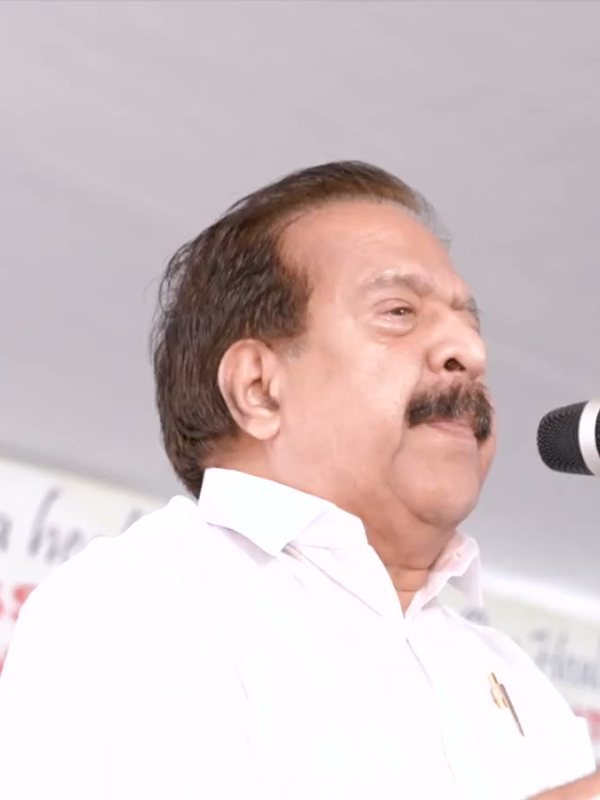
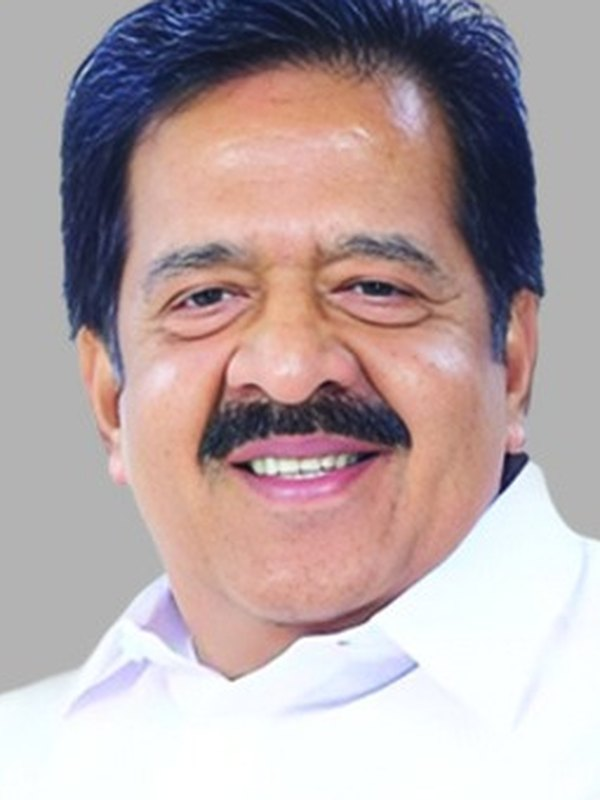
Highlight Mar Pauly Kannukkadan with portrait; use invitation portraits
- About: 'Blessed by' card with the bishop's portrait, title and the
  23 September blessing, placed under the inaugurator card; removed
  from the 'Also at the ceremony' list
- Home: band now shows both the bishop (Blessed by) and the Home
  Minister (Inaugurated by) with a shared CTA
- Gallery: bishop portrait tile; person tiles show the full portrait
- Portraits cropped from the high-resolution invitation embedded in the
  client's PDF; spelling aligned to the invitation (Kannukkadan)

diff --git a/css/style.css b/css/style.css
@@ -1001,6 +1001,7 @@ svg { fill: currentColor; }
 .gallery__item--wide video { width: 100%; height: 100%; display: block; object-fit: cover; aspect-ratio: 16 / 9; }
 .gallery__item--contain img { object-fit: contain; background: var(--white); }
 .gallery__item--contain:hover img { transform: none; }
+.gallery__item--person img { background: linear-gradient(180deg, var(--green-50), var(--green-100)); padding: 10px 0 0; }
 
 /* ---------- Hours ---------- */
 .hours { display: grid; gap: 4px; margin: 0; }
@@ -1253,29 +1254,48 @@ svg { fill: currentColor; }
 .inaugurator__meta a { color: var(--green-700); }
 .inaugurator__meta a:hover { text-decoration: underline; }
 
+/* blessing card variant */
+.inaugurator--blessing { grid-template-columns: 300px 1fr; gap: 44px; }
+.inaugurator--blessing::before { background: radial-gradient(circle, rgba(92,184,92,.16), transparent 65%); }
+.inaugurator__portrait {
+  position: relative; border-radius: var(--radius); overflow: hidden; aspect-ratio: 3 / 4; background: var(--green-100);
+  box-shadow: var(--shadow-sm); border: 6px solid var(--white); outline: 1px solid var(--line);
+}
+.inaugurator__portrait img { width: 100%; height: 100%; object-fit: cover; object-position: 50% 20%; }
+.inaugurator__portrait .inaugurator__date { left: 12px; bottom: 12px; }
+.inaugurator--blessing .inaugurator__role { color: var(--green-700); }
+
 /* compact band on Home */
 .inaug-band { background: var(--green-50); padding: 56px 0; }
-.inaugurator--band { grid-template-columns: 128px 1fr auto; gap: 28px; padding: 22px 30px 22px 22px; margin: 0; }
-.inaugurator__avatar { width: 128px; height: 128px; border-radius: 50%; overflow: hidden; border: 4px solid var(--saffron-100); box-shadow: var(--shadow-sm); }
-.inaugurator__avatar img { width: 100%; height: 100%; object-fit: cover; object-position: 50% 30%; }
-.inaugurator--band .inaugurator__name { font-size: clamp(1.6rem, 2.4vw, 2.1rem); }
+.inaug-band__grid { display: grid; grid-template-columns: 1fr 1fr; gap: 20px; }
+.inaugurator--band { grid-template-columns: 112px 1fr; gap: 22px; padding: 20px 26px 20px 20px; margin: 0; }
+.inaugurator__avatar { width: 112px; height: 112px; border-radius: 50%; overflow: hidden; border: 4px solid var(--saffron-100); box-shadow: var(--shadow-sm); }
+.inaugurator__avatar--blessing { border-color: var(--green-100); }
+.inaugurator__avatar--blessing + .inaugurator__body .inaugurator__role { color: var(--green-700); }
+.inaug-band .press__more { margin-top: 26px; }
+.inaugurator__avatar img { width: 100%; height: 100%; object-fit: cover; object-position: 50% 22%; }
+.inaugurator--band .inaugurator__name { font-size: clamp(1.45rem, 2vw, 1.8rem); }
+.inaugurator--band .inaugurator__role { font-size: .9rem; }
 .inaugurator--band .inaugurator__role { margin-bottom: 0; }
 .inaugurator__cta { position: relative; }
 
 @media (max-width: 1080px) {
-  .inaugurator--band { grid-template-columns: 110px 1fr; }
-  .inaugurator__avatar { width: 110px; height: 110px; }
-  .inaugurator__cta { grid-column: 1 / -1; }
+  .inaugurator--band { grid-template-columns: 96px 1fr; gap: 18px; }
+  .inaugurator__avatar { width: 96px; height: 96px; }
+  .inaugurator--blessing { grid-template-columns: 240px 1fr; gap: 32px; }
 }
 @media (max-width: 960px) {
-  .inaugurator { grid-template-columns: 1fr; gap: 24px; padding: 18px; margin-bottom: 44px; }
+  .inaugurator, .inaugurator--blessing { grid-template-columns: 1fr; gap: 24px; padding: 18px; margin-bottom: 44px; }
+  .inaugurator__portrait { max-width: 260px; }
+  .inaug-band__grid { grid-template-columns: 1fr; gap: 16px; }
   .inaugurator__body { padding-right: 0; }
   .inaug-band { padding: 44px 0; }
 }
 @media (max-width: 640px) {
   .inaugurator--band { grid-template-columns: 1fr; text-align: center; justify-items: center; padding: 22px 18px; }
   .inaugurator--band .eyebrow { justify-content: center; }
-  .inaugurator__cta .btn { width: 100%; }
+  .inaug-band .press__more .btn { width: 100%; }
+  .inaugurator__portrait { max-width: 220px; margin: 0 auto; }
 }
 
 @media (max-width: 960px) {

diff --git a/about.html b/about.html
@@ -211,7 +211,7 @@
             Lissy Ayurveda Hospital &amp; Panchakarma Centre (LAHPC) is located at Ithupadam, in Ward 23 of
             Mattathur Grama Panchayat, near Kodakara in Thrissur district. Kerala is recognised worldwide as the
             home of classical Ayurveda, and our hospital carries that tradition forward with sincerity and care.
-            The hospital was inaugurated on 24 September 2026 by Sri. Ramesh Chennithala, Home Minister, Government of Kerala, after a blessing ceremony on 23 September led by Mar Pauly Kannookadan,
+            The hospital was inaugurated on 24 September 2026 by Sri. Ramesh Chennithala, Home Minister, Government of Kerala, after a blessing ceremony on 23 September led by Mar Pauly Kannukkadan,
             Bishop of the Diocese of Irinjalakuda.
           </p>
           <p>
@@ -268,6 +268,26 @@
             </ul>
           </div>
         </div>
+        <div class="inaugurator inaugurator--blessing reveal">
+          <div class="inaugurator__portrait">
+            <img src="assets/images/inauguration/mar-pauly-kannukkadan.jpg" alt="Mar Pauly Kannukkadan, Bishop of the Diocese of Irinjalakuda" loading="lazy" width="600" height="800" />
+            <span class="inaugurator__date"><svg class="icon" aria-hidden="true"><use href="#i-cross"/></svg> 23 September 2026</span>
+          </div>
+          <div class="inaugurator__body">
+            <span class="eyebrow"><span class="eyebrow__dot"></span>Blessed by</span>
+            <h3 class="inaugurator__name">Mar Pauly Kannukkadan</h3>
+            <p class="inaugurator__role">Bishop, Diocese of Irinjalakuda</p>
+            <p class="inaugurator__text">
+              On the eve of the inauguration, His Excellency Mar Pauly Kannukkadan, Bishop of the Diocese of Irinjalakuda,
+              blessed the new hospital at Ithupadam, Mattathur, invoking God&rsquo;s grace on the healing work that
+              Lissy Ayurveda Hospital &amp; Panchakarma Centre set out to do.
+            </p>
+            <ul class="inaugurator__meta">
+              <li><svg class="icon" aria-hidden="true"><use href="#i-clock"/></svg> Blessing ceremony at 11:00 AM, 23 September 2026</li>
+              <li><svg class="icon" aria-hidden="true"><use href="#i-hospital"/></svg> Lissy Ayurveda Hospital &amp; Panchakarma Centre, Ithupadam</li>
+            </ul>
+          </div>
+        </div>
         <div class="inaug__inner">
           <div class="inaug__videos">
             <div class="video__frame reveal">
@@ -290,7 +310,6 @@
             <ul class="inaug__facts">
               <li><span><svg class="icon" aria-hidden="true"><use href="#i-mic"/></svg></span><div><strong>Sri. K.K. Ramachandran</strong><small>MLA, Puthukkad · Presided over the function</small></div></li>
               <li><span><svg class="icon" aria-hidden="true"><use href="#i-landmark"/></svg></span><div><strong>Sri. A. Prasad</strong><small>Deputy Mayor, Thrissur Corporation · Chief guest</small></div></li>
-              <li><span><svg class="icon" aria-hidden="true"><use href="#i-cross"/></svg></span><div><strong>Mar Pauly Kannookadan</strong><small>Bishop, Diocese of Irinjalakuda · Blessed the hospital on 23 September</small></div></li>
               <li><span><svg class="icon" aria-hidden="true"><use href="#i-stethoscope"/></svg></span><div><strong>Dr. Litty C.J.</strong><small>Chief Physician, LAHPC · Welcome address</small></div></li>
               <li><span><svg class="icon" aria-hidden="true"><use href="#i-handshake"/></svg></span><div><strong>Public representatives</strong><small>Smt. Tessy Jose, President, Mattathur Grama Panchayat; Smt. Aswathy V.B., President, Kodakara Block Panchayat; Sri. Akshay Santhosh, Ward 23 Member; and dignitaries from political and social life</small></div></li>
             </ul>

diff --git a/index.html b/index.html
@@ -369,18 +369,30 @@
     <!-- ========== INAUGURATED BY ========== -->
     <section class="inaug-band">
       <div class="container">
-        <div class="inaugurator inaugurator--band reveal">
-          <div class="inaugurator__avatar">
-            <img src="assets/images/inauguration/ramesh-chennithala.jpg" alt="Sri. Ramesh Chennithala, Home Minister, Government of Kerala" loading="lazy" width="600" height="800" />
+        <div class="inaug-band__grid">
+          <div class="inaugurator inaugurator--band reveal">
+            <div class="inaugurator__avatar inaugurator__avatar--blessing">
+              <img src="assets/images/inauguration/mar-pauly-kannukkadan.jpg" alt="Mar Pauly Kannukkadan, Bishop of the Diocese of Irinjalakuda" loading="lazy" width="600" height="800" />
+            </div>
+            <div class="inaugurator__body">
+              <span class="eyebrow"><span class="eyebrow__dot"></span>Blessed by</span>
+              <h3 class="inaugurator__name">Mar Pauly Kannukkadan</h3>
+              <p class="inaugurator__role">Bishop, Diocese of Irinjalakuda · 23 September 2026</p>
+            </div>
           </div>
-          <div class="inaugurator__body">
-            <span class="eyebrow"><span class="eyebrow__dot"></span>Inaugurated by</span>
-            <h3 class="inaugurator__name">Sri. Ramesh Chennithala</h3>
-            <p class="inaugurator__role">Home Minister, Government of Kerala · 24 September 2026</p>
+          <div class="inaugurator inaugurator--band reveal reveal--delay">
+            <div class="inaugurator__avatar">
+              <img src="assets/images/inauguration/ramesh-chennithala.jpg" alt="Sri. Ramesh Chennithala, Home Minister, Government of Kerala" loading="lazy" width="600" height="800" />
+            </div>
+            <div class="inaugurator__body">
+              <span class="eyebrow"><span class="eyebrow__dot"></span>Inaugurated by</span>
+              <h3 class="inaugurator__name">Sri. Ramesh Chennithala</h3>
+              <p class="inaugurator__role">Home Minister, Government of Kerala · 24 September 2026</p>
+            </div>
           </div>
-          <div class="inaugurator__cta">
-            <a href="about.html#inauguration" class="btn btn--primary">Watch the inauguration <svg viewBox="0 0 24 24" aria-hidden="true"><path d="M5 12h14M13 6l6 6-6 6" fill="none" stroke="currentColor" stroke-width="2" stroke-linecap="round" stroke-linejoin="round"/></svg></a>
-          </div>
+        </div>
+        <div class="press__more reveal">
+          <a href="about.html#inauguration" class="btn btn--primary">Watch the inauguration <svg viewBox="0 0 24 24" aria-hidden="true"><path d="M5 12h14M13 6l6 6-6 6" fill="none" stroke="currentColor" stroke-width="2" stroke-linecap="round" stroke-linejoin="round"/></svg></a>
         </div>
       </div>
     </section>

diff --git a/gallery.html b/gallery.html
@@ -224,7 +224,7 @@
         </div>
 
         <h2 class="gallery__title" id="inauguration">Inauguration, 24 September 2026</h2>
-        <p class="gallery__sub">Lissy Ayurveda Hospital &amp; Panchakarma Centre was inaugurated by Sri. Ramesh Chennithala, Home Minister, Government of Kerala, with Sri. K.K. Ramachandran, MLA, presiding.</p>
+        <p class="gallery__sub">Lissy Ayurveda Hospital &amp; Panchakarma Centre was inaugurated by Sri. Ramesh Chennithala, Home Minister, Government of Kerala, with Sri. K.K. Ramachandran, MLA, presiding. The hospital was blessed the previous day by Mar Pauly Kannukkadan, Bishop of the Diocese of Irinjalakuda.</p>
         <div class="gallery__grid">
           <figure class="gallery__item gallery__item--wide reveal">
             <video controls preload="none" playsinline poster="assets/video/inauguration-poster.jpg">
@@ -244,9 +244,13 @@
             <a href="assets/images/inauguration/lamp-lighting.jpg" target="_blank" rel="noopener"><img src="assets/images/inauguration/lamp-lighting.jpg" alt="Sri. Ramesh Chennithala, Home Minister, lighting the lamp to inaugurate LAHPC" loading="lazy" /></a>
             <figcaption>Home Minister Sri. Ramesh Chennithala lights the lamp</figcaption>
           </figure>
-          <figure class="gallery__item reveal">
-            <a href="assets/images/inauguration/ramesh-chennithala.jpg" target="_blank" rel="noopener"><img src="assets/images/inauguration/ramesh-chennithala.jpg" alt="Sri. Ramesh Chennithala addressing the gathering" style="object-position: 50% 32%" loading="lazy" /></a>
-            <figcaption>Sri. Ramesh Chennithala, Home Minister</figcaption>
+          <figure class="gallery__item gallery__item--contain gallery__item--person reveal">
+            <a href="assets/images/inauguration/ramesh-chennithala.jpg" target="_blank" rel="noopener"><img src="assets/images/inauguration/ramesh-chennithala.jpg" alt="Sri. Ramesh Chennithala, Home Minister, Government of Kerala" loading="lazy" /></a>
+            <figcaption>Sri. Ramesh Chennithala, Home Minister · Inaugurated the hospital</figcaption>
+          </figure>
+          <figure class="gallery__item gallery__item--contain gallery__item--person reveal">
+            <a href="assets/images/inauguration/mar-pauly-kannukkadan.jpg" target="_blank" rel="noopener"><img src="assets/images/inauguration/mar-pauly-kannukkadan.jpg" alt="Mar Pauly Kannukkadan, Bishop of the Diocese of Irinjalakuda" loading="lazy" /></a>
+            <figcaption>Mar Pauly Kannukkadan, Bishop · Blessed the hospital, 23 Sep 2026</figcaption>
           </figure>
         </div>
 
